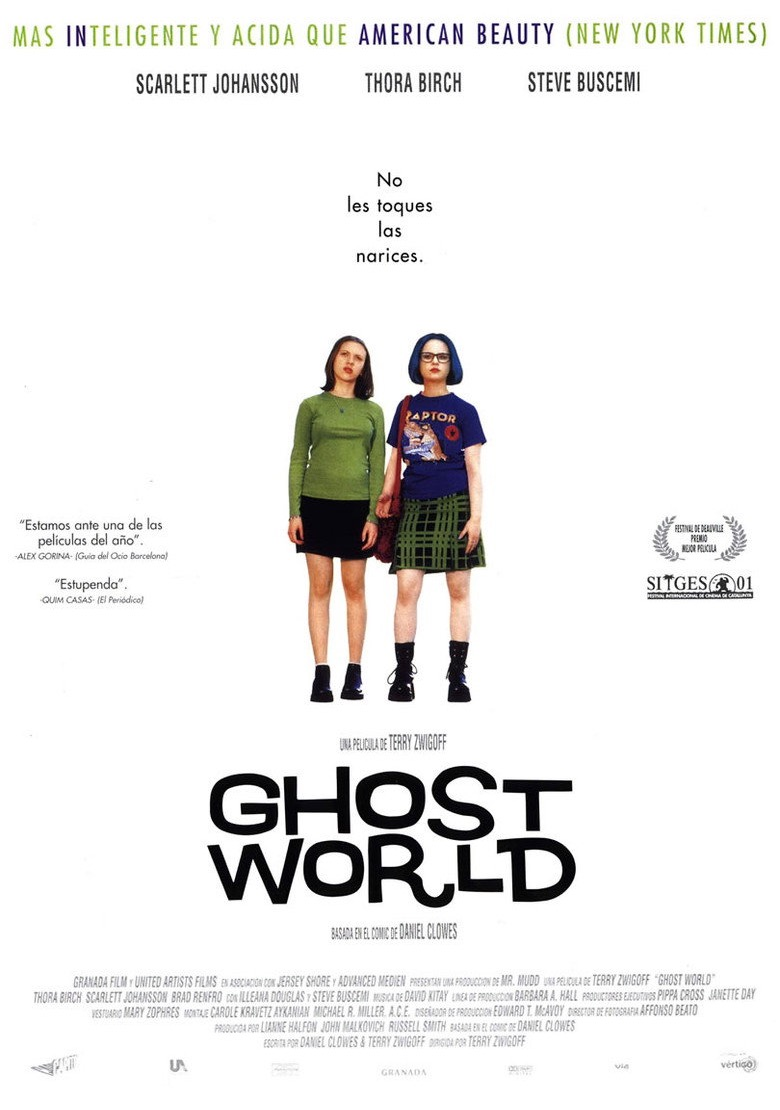
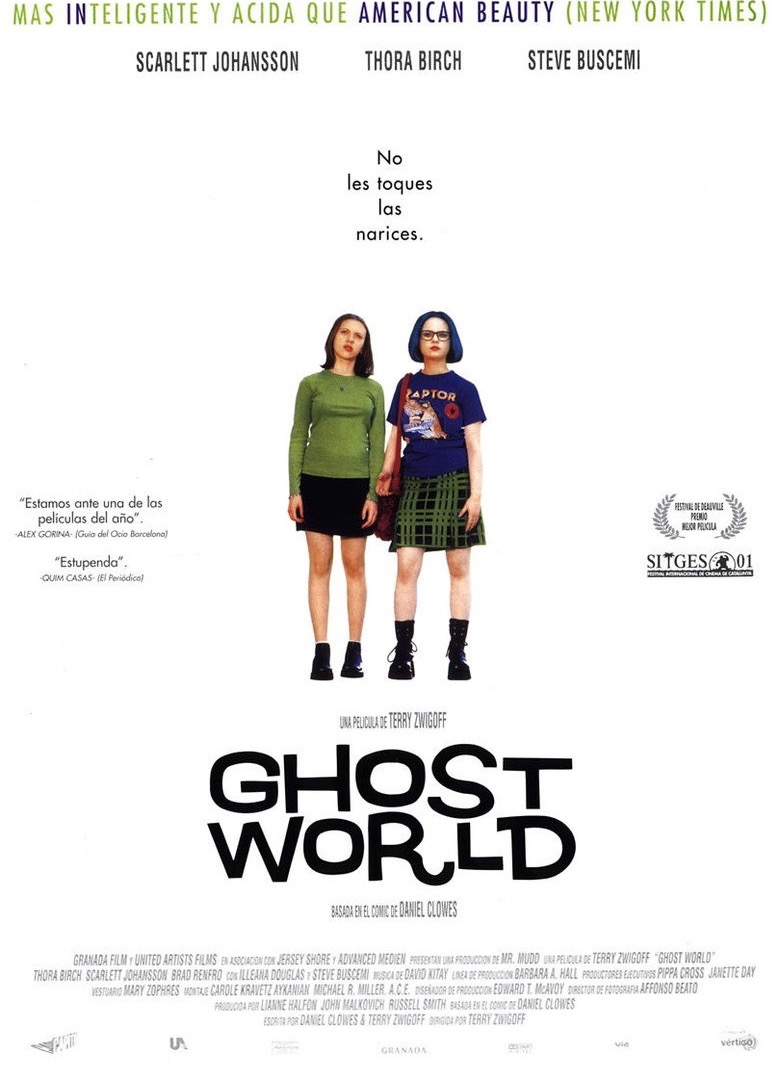
fix(ficma): el bar-trim fallaba en silencio con los marcos asimétricos
Tras el #537, «Habitante» seguía con banda en producción. La causa era mía y
doble:

· sips no acepta offset negativo —lee «-1» como una bandera y aborta—, y el
  marco asimétrico lo producía: Habitante tenía 14 px arriba y 17 abajo →
  offset −1 → error. Le pasaba a todo póster con marco desigual.
· y yo capturaba la salida de sips SIN mirar el código de retorno, así que el
  script informaba «APLICADO» sobre archivos que no había tocado. Un reporte
  que no medía nada, otra vez.

Dos correcciones:

· el recorte es SIMÉTRICO por el menor de los dos lados. Nunca necesita offset,
  nunca se come imagen, y deja como mucho unos px de marco en el lado grueso.
· el fallo de sips se imprime. Nada en silencio.

Y el criterio de detección pasa a exigir marco en AMBOS lados (min(t,b) ≥ 2):
una banda de un solo lado casi siempre es arte, no marco.

Aplicado a los 5 que quedaban —Habitante, AA965, Ghost World, Herb & Dorothy y
el still de Cómo limpiar un espejo—, verificados en hoja de contactos.

diff --git a/index.html b/index.html
@@ -59,8 +59,8 @@ window.sentryOnLoad = function() {
      contraste en la pestaña ("borde blanco"). La marca flotante contrasta sola
      en tema claro y oscuro — sin caja, sin backdrop. El apple-touch-icon del
      home screen conserva el ícono completo con fondo (ahí sí corresponde). -->
-<link rel="icon" type="image/png" sizes="32x32" href="/favicon.png?v=202608090901">
-<link rel="icon" type="image/png" sizes="192x192" href="/favicon-192.png?v=202608090901">
+<link rel="icon" type="image/png" sizes="32x32" href="/favicon.png?v=202608090913">
+<link rel="icon" type="image/png" sizes="192x192" href="/favicon-192.png?v=202608090913">
 <!-- Caching gestionado por el Service Worker (sw.js) — Network First para HTML -->
 <title>Otrofestiv — Tú decides el festival</title>
 <meta name="description" content="Tu agenda personal para festivales de cine. Explorá, planificá y sacá el máximo de cada festival.">
@@ -3143,7 +3143,7 @@ setTimeout(function(){
   function bootApp(){
     var s = document.createElement('script');
     s.type = 'module';
-    s.src="/src/main.js?v=202608090901";
+    s.src="/src/main.js?v=202608090913";
     document.body.appendChild(s);
     // Watchdog de boot (P0 18 jul): si el grafo ESM murió en el import (caché
     // HTTP mixta tras deploys en ráfaga — main.js nuevo + módulo viejo sin el

diff --git a/sw.js b/sw.js
@@ -9,8 +9,8 @@
 //      el reload forzado por deploy, se sirve ese HTML en vez de OFFLINE_HTML (una
 //      sesión viva ya no se destruye por un deploy con señal mala). Audit P3 #10.
 
-const CACHE_NAME = 'otrofestiv-v202608090901';
-const BUILD = '202608090901';
+const CACHE_NAME = 'otrofestiv-v202608090913';
+const BUILD = '202608090913';
 // Caché PERSISTENTE de assets inmutables (pósters, iconos, fonts): NO se borra
 // en activate. Durante un festival deployamos a diario; sin esto, cada deploy
 // obligaba a re-descargar ~8MB de pósters ya vistos (señal rural en sede).

diff --git a/src/main.js b/src/main.js
@@ -454,7 +454,7 @@ FESTIVAL_STORAGE_KEY=(storage.getActiveFestId()||_DEFAULT_FEST_ID)+'_';
 // BUILD_VERSION: cambia en cada deploy.
 // Al cargar, compara con localStorage. Si difiere → reload duro.
 // sessionStorage evita loops infinitos dentro de la misma sesión.
-const BUILD_VERSION='202608090901';
+const BUILD_VERSION='202608090913';
 (function(){
   // _vk eliminado — el build version se accede vía storage.getBuild()/setBuild()
   const _sk='otrofestiv_reloaded';

diff --git a/pipeline/bar-trim.py b/pipeline/bar-trim.py
@@ -107,7 +107,7 @@ def main():
             continue
         w, h, filas = px
         t, b = borde(filas, True), borde(filas, False)
-        if t + b < 4:                       # 3 px de ruido no son un marco
+        if min(t, b) < 2:                   # el marco debe estar en AMBOS lados
             continue
         # escalar al tamaño original y recortar
         W = int(subprocess.run(['sips', '-g', 'pixelWidth', real], capture_output=True)
@@ -115,14 +115,21 @@ def main():
         H = int(subprocess.run(['sips', '-g', 'pixelHeight', real], capture_output=True)
                 .stdout.decode().split(':')[-1])
         rt, rb = round(t * H / h), round(b * H / h)
+        # Se recorta lo MISMO por los dos lados, usando el menor. sips recorta
+        # desde el centro y no acepta offset negativo —lo lee como bandera y
+        # aborta—, así que un marco asimétrico fallaba en silencio (habitante:
+        # 14 arriba, 17 abajo → offset −1 → sips error → póster sin tocar).
+        # Simétrico es además más seguro: nunca se come imagen, y deja como
+        # mucho unos pocos px de marco en el lado más grueso.
+        rt = rb = min(rt, rb)
         nuevo_h = H - rt - rb
         tocados.append((os.path.basename(p), f'{H}px → {nuevo_h}px (arriba {rt}, abajo {rb})'))
         if aplicar:
-            # sips recorta desde el CENTRO: se compensa el desbalance con offset
-            off = (rt - rb) // 2
-            subprocess.run(['sips', '-c', str(nuevo_h), str(W),
-                            '--cropOffset', str(off), '0', real, '--out', real],
-                           capture_output=True)
+            r = subprocess.run(['sips', '-c', str(nuevo_h), str(W), real, '--out', real],
+                               capture_output=True)
+            if r.returncode != 0:                     # nunca más en silencio
+                print(f'   ✗ sips falló en {os.path.basename(p)}: '
+                      f'{r.stderr.decode().strip()[:80]}')
     print(f'{len(vistos)} pósters propios · con marco {len(tocados)}'
           + ('  (APLICADO)' if aplicar else '  (simulación — usar --aplicar)'))
     for n, msg in tocados:
